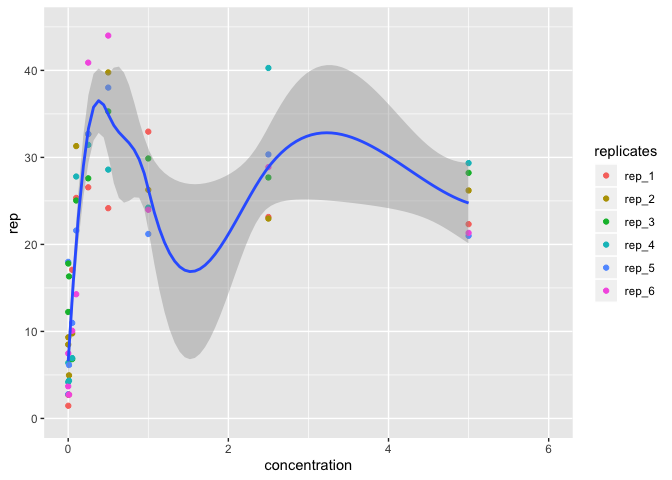
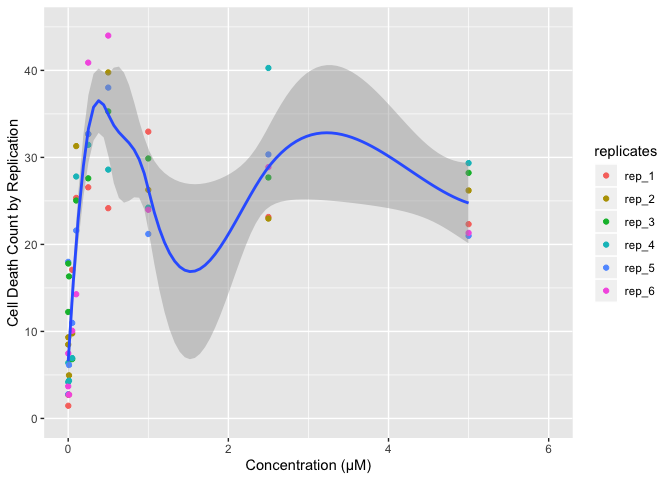
updates +

Changed region(s): [[0.0, 0.25, 0.0312, 0.6875], [0.375, 0.9375, 0.5625, 1.0]]

diff --git a/HW_1.md b/HW_1.md
@@ -138,7 +138,8 @@ cyto_death_plot <- cyto_tidy_death %>%
   ggplot(aes(x = concentration, y = rep)) +
   ylim(0, 45) + xlim(0,6) +
   geom_point(aes(color = replicates)) +
-  geom_smooth(method= "auto", se= TRUE) 
+  geom_smooth(method= "auto", se= TRUE) +
+  xlab ("Concentration (μM)")+ ylab ("Cell Death Count by Replication")
 cyto_death_plot
 ```
 
@@ -153,7 +154,8 @@ cyto_death_plot_2 <- cyto_tidy_death %>%
   ggplot(aes(x = concentration, y = avg_cell_death)) +
   ylim(0, 45) + xlim(0,6) +
   geom_point() +
-  geom_smooth(method= "auto", se= TRUE) 
+  geom_smooth(method= "auto", se= TRUE) +
+  xlab ("Concentration (μM)")+ ylab ("Average Death")
 cyto_death_plot_2
 ```
 
@@ -167,7 +169,8 @@ cyto_death_plot_3 <- cyto_tidy_death %>%
   ggplot(aes(x = concentration, y = from_ctr)) +
   ylim(0, 450) + xlim(0,6) +
   geom_point() +
-  geom_smooth(method= "auto", se= TRUE) 
+  geom_smooth(method= "auto", se= TRUE) +
+  xlab ("Concentration (μM)")+ ylab ("Average Death (% from control)")
 cyto_death_plot_3
 ```
 
